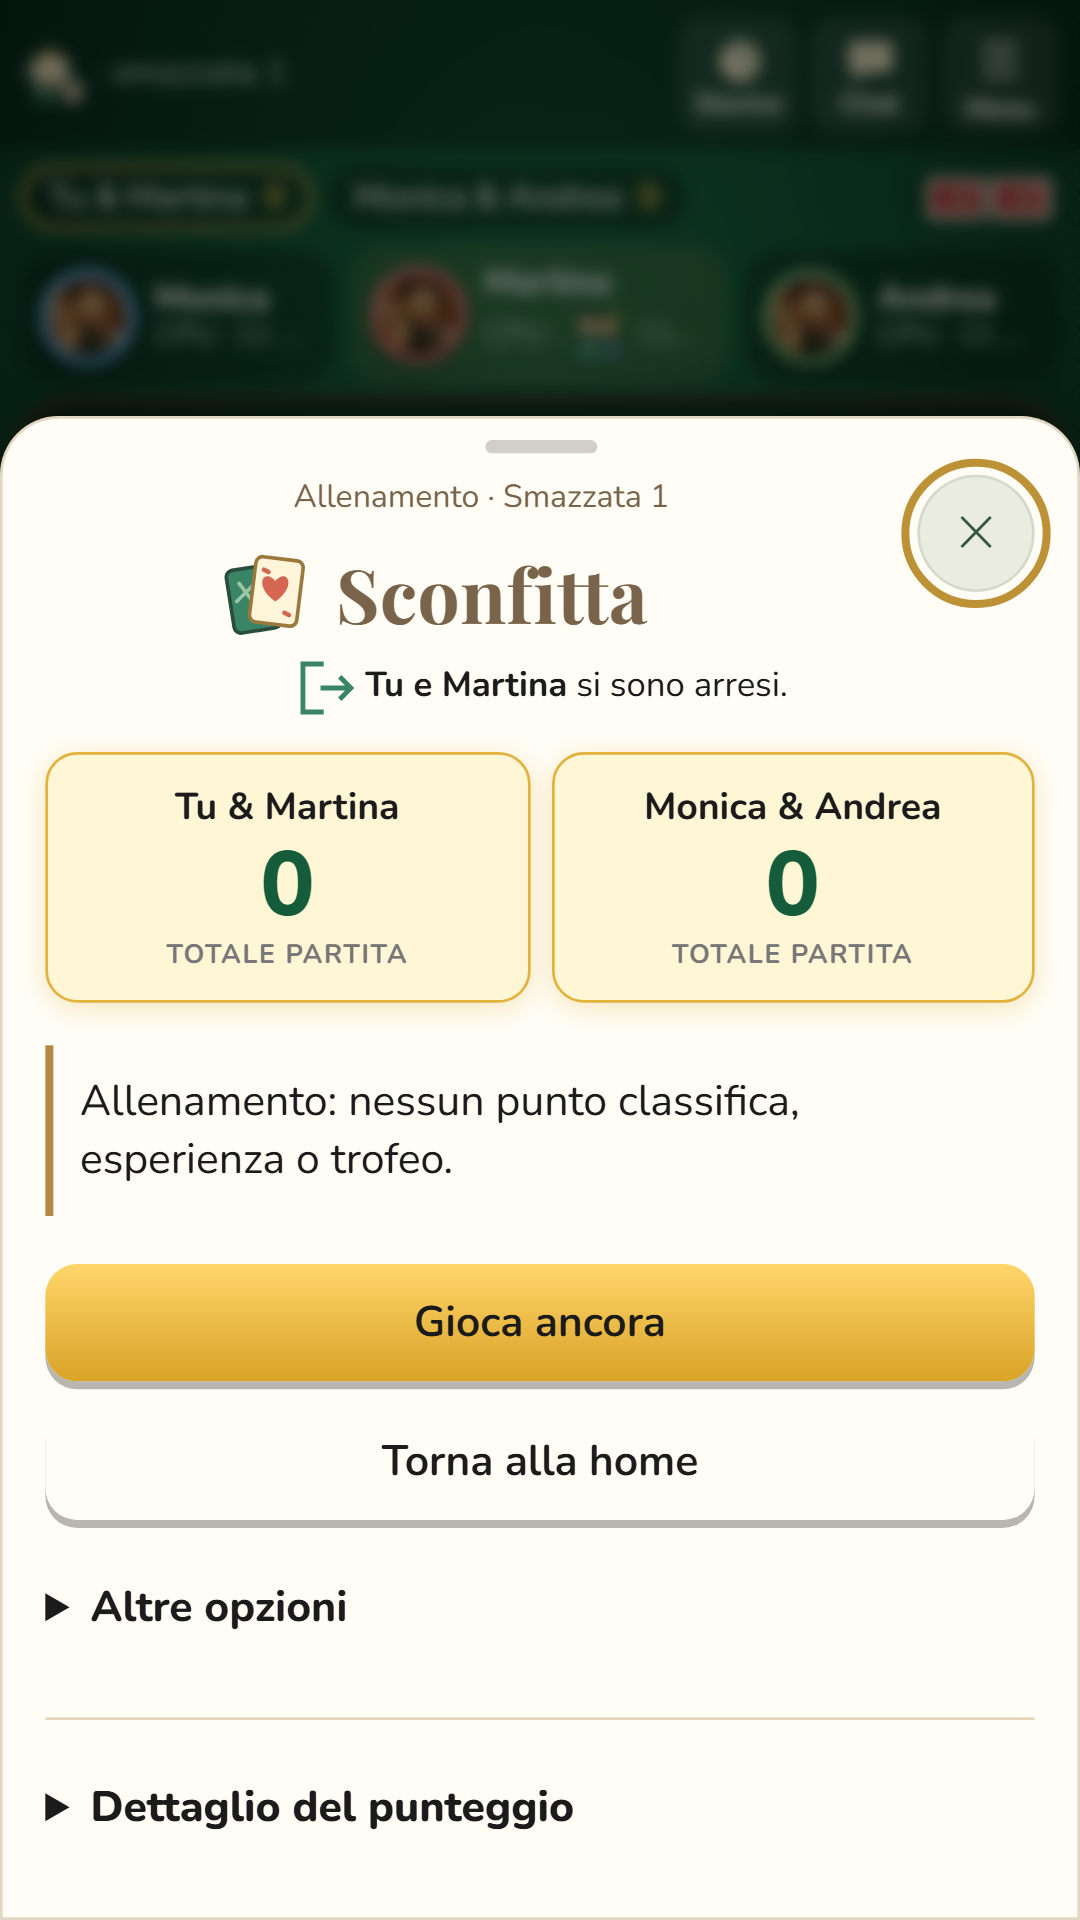
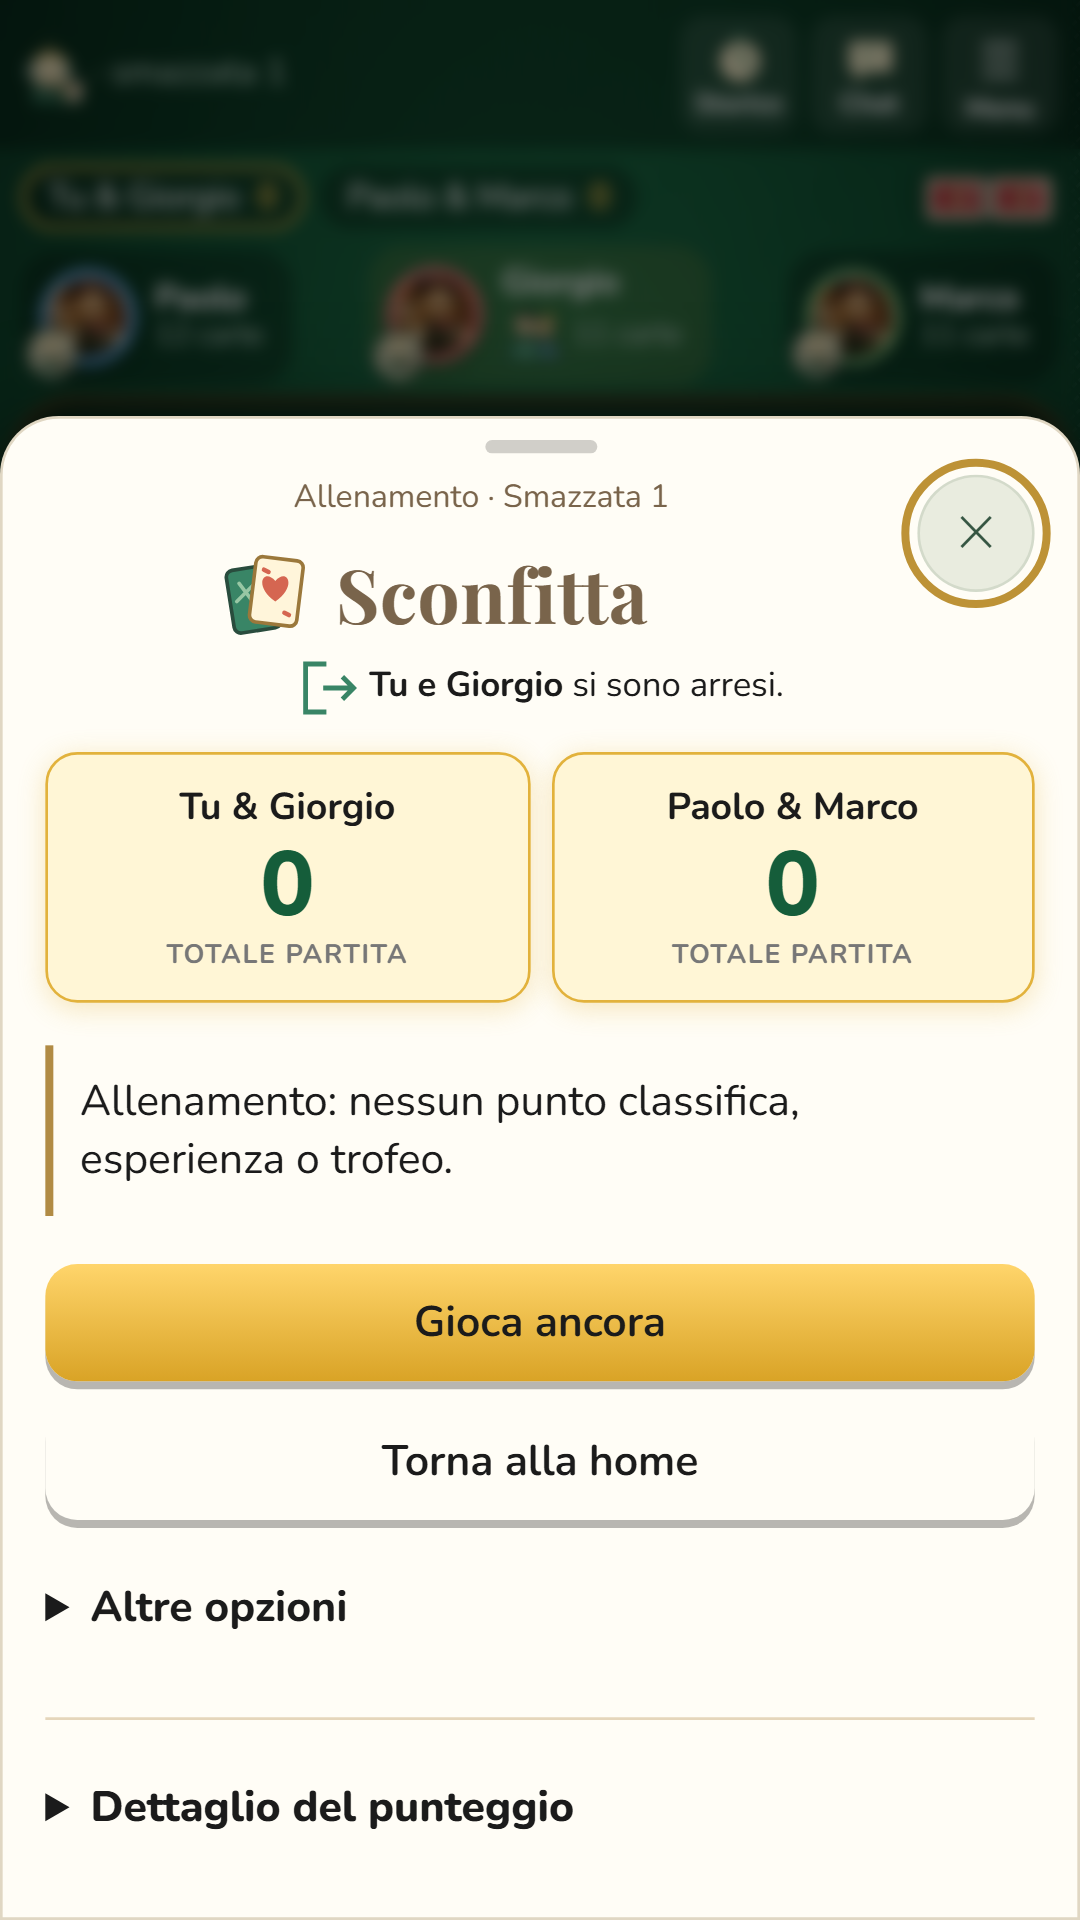
Corregge l'etichetta dei computer e il tavolo senza animazioni
Il computer si riconosce da un'icona sul ritratto: il testo «CPU ·»
tagliava il numero di carte. Con «senza animazioni» le transizioni
durano 0 s, così fitTable misura subito e la Scala 40 a quattro non
finisce più sotto i comandi. Schermate store rigenerate. Client
2026.11.02.1, cache v99.

diff --git a/launcher/sw.js b/launcher/sw.js
@@ -1,7 +1,7 @@
 // Service worker della pagina d'ingresso: salva la pagina e la copia del gioco (cartella gioca/)
 // così, senza internet, l'app si apre lo stesso e si può giocare contro il computer.
 // "Prima la rete": da collegati si usa sempre la versione più recente.
-const CACHE = 'burraco-ingresso-v98';
+const CACHE = 'burraco-ingresso-v99';
 const SHELL = [
   'gioca/js/collection.js', 'gioca/collection.css', 'gioca/shared/cosmetics.js', 'gioca/js/cosmetics.js', 'gioca/cosmetics.css', 'gioca/art/cosmetics/back/trama-rubino.webp', 'gioca/art/cosmetics/back/picche-del-bosco.webp', 'gioca/art/cosmetics/back/fiordaliso.webp', 'gioca/art/cosmetics/back/filo-di-rame.webp', 'gioca/art/cosmetics/back/vento-marino.webp', 'gioca/art/cosmetics/back/lavanda.webp', 'gioca/art/cosmetics/back/geometrie-salvia.webp', 'gioca/art/cosmetics/back/righe-del-mazziere.webp', 'gioca/art/cosmetics/back/mosaico-terracotta.webp', 'gioca/art/cosmetics/back/foglie-d-autunno.webp', 'gioca/art/cosmetics/back/rosa-dei-venti.webp', 'gioca/art/cosmetics/back/vetri-di-murano.webp', 'gioca/art/cosmetics/back/piuma-di-pavone.webp', 'gioca/art/cosmetics/back/orologio-lunare.webp', 'gioca/art/cosmetics/back/giardino-d-inverno.webp', 'gioca/art/cosmetics/back/scaglie-d-ambra.webp', 'gioca/art/cosmetics/back/biblioteca-arcana.webp', 'gioca/art/cosmetics/back/cometa-di-cristallo.webp', 'gioca/art/cosmetics/back/drago-d-ossidiana.webp', 'gioca/art/cosmetics/back/sigillo-dell-aurora.webp', 'gioca/art/cosmetics/felt/panno-foresta.webp', 'gioca/art/cosmetics/felt/velluto-blu-notte.webp', 'gioca/art/cosmetics/felt/cotone-bordeaux.webp', 'gioca/art/cosmetics/felt/ardesia-soffice.webp', 'gioca/art/cosmetics/felt/tessuto-petrolio.webp', 'gioca/art/cosmetics/felt/muschio.webp', 'gioca/art/cosmetics/felt/zaffiro-fume.webp', 'gioca/art/cosmetics/felt/crepuscolo-viola.webp', 'gioca/art/cosmetics/felt/sabbia-d-ulivo.webp', 'gioca/art/cosmetics/felt/terracotta-scura.webp', 'gioca/art/cosmetics/felt/salotto-veneziano.webp', 'gioca/art/cosmetics/felt/serra-al-tramonto.webp', 'gioca/art/cosmetics/felt/salone-d-ambra.webp', 'gioca/art/cosmetics/felt/osservatorio.webp', 'gioca/art/cosmetics/felt/riva-notturna.webp', 'gioca/art/cosmetics/felt/biblioteca-di-noce.webp', 'gioca/art/cosmetics/felt/santuario-di-giada.webp', 'gioca/art/cosmetics/felt/palazzo-delle-nuvole.webp', 'gioca/art/cosmetics/felt/forgia-celeste.webp', 'gioca/art/cosmetics/felt/giardino-dell-eternita.webp', 'gioca/art/cosmetics/reaction/orso-applaude.webp', 'gioca/art/cosmetics/reaction/volpe-saluta.webp', 'gioca/art/cosmetics/reaction/gatto-ringrazia.webp', 'gioca/art/cosmetics/reaction/coniglio-sorpreso.webp', 'gioca/art/cosmetics/reaction/gufo-riflette.webp', 'gioca/art/cosmetics/reaction/lontra-ride.webp', 'gioca/art/cosmetics/reaction/riccio-incoraggia.webp', 'gioca/art/cosmetics/reaction/pinguino-approva.webp', 'gioca/art/cosmetics/reaction/panda-rosso-abbraccia.webp', 'gioca/art/cosmetics/reaction/tartaruga-aspetta.webp', 'gioca/art/cosmetics/reaction/leone-si-inchina.webp', 'gioca/art/cosmetics/reaction/prestigiatore-festeggia.webp', 'gioca/art/cosmetics/reaction/gufo-meravigliato.webp', 'gioca/art/cosmetics/reaction/lupo-ammicca.webp', 'gioca/art/cosmetics/reaction/pavone-elegante.webp', 'gioca/art/cosmetics/reaction/alchimista-brillante.webp', 'gioca/art/cosmetics/reaction/grifone-esulta.webp', 'gioca/art/cosmetics/reaction/unicorno-incanta.webp', 'gioca/art/cosmetics/reaction/gatto-stregone-trionfa.webp', 'gioca/art/cosmetics/reaction/fenice-celebra.webp',
   'gioca/art/chests/chest-opening.webp', 'gioca/art/chests/chest-rare.webp', 'gioca/art/chests/chest-epic.webp', 'gioca/art/chests/chest-legendary.webp', 'gioca/js/chests.js',

diff --git a/public/sw.js b/public/sw.js
@@ -1,7 +1,7 @@
 // Service worker: notifiche e copia del gioco per giocare anche senza internet.
 // "Prima la rete": da collegati si usa sempre la versione più recente (e se ne salva una copia);
 // senza rete si usa l'ultima copia salvata. La connessione di gioco (socket.io) non passa mai dalla copia.
-const CACHE = 'burraco-gioco-v98';
+const CACHE = 'burraco-gioco-v99';
 const SHELL = [
   'js/collection.js', 'collection.css', 'shared/cosmetics.js', 'js/cosmetics.js', 'cosmetics.css', 'art/cosmetics/back/trama-rubino.webp', 'art/cosmetics/back/picche-del-bosco.webp', 'art/cosmetics/back/fiordaliso.webp', 'art/cosmetics/back/filo-di-rame.webp', 'art/cosmetics/back/vento-marino.webp', 'art/cosmetics/back/lavanda.webp', 'art/cosmetics/back/geometrie-salvia.webp', 'art/cosmetics/back/righe-del-mazziere.webp', 'art/cosmetics/back/mosaico-terracotta.webp', 'art/cosmetics/back/foglie-d-autunno.webp', 'art/cosmetics/back/rosa-dei-venti.webp', 'art/cosmetics/back/vetri-di-murano.webp', 'art/cosmetics/back/piuma-di-pavone.webp', 'art/cosmetics/back/orologio-lunare.webp', 'art/cosmetics/back/giardino-d-inverno.webp', 'art/cosmetics/back/scaglie-d-ambra.webp', 'art/cosmetics/back/biblioteca-arcana.webp', 'art/cosmetics/back/cometa-di-cristallo.webp', 'art/cosmetics/back/drago-d-ossidiana.webp', 'art/cosmetics/back/sigillo-dell-aurora.webp', 'art/cosmetics/felt/panno-foresta.webp', 'art/cosmetics/felt/velluto-blu-notte.webp', 'art/cosmetics/felt/cotone-bordeaux.webp', 'art/cosmetics/felt/ardesia-soffice.webp', 'art/cosmetics/felt/tessuto-petrolio.webp', 'art/cosmetics/felt/muschio.webp', 'art/cosmetics/felt/zaffiro-fume.webp', 'art/cosmetics/felt/crepuscolo-viola.webp', 'art/cosmetics/felt/sabbia-d-ulivo.webp', 'art/cosmetics/felt/terracotta-scura.webp', 'art/cosmetics/felt/salotto-veneziano.webp', 'art/cosmetics/felt/serra-al-tramonto.webp', 'art/cosmetics/felt/salone-d-ambra.webp', 'art/cosmetics/felt/osservatorio.webp', 'art/cosmetics/felt/riva-notturna.webp', 'art/cosmetics/felt/biblioteca-di-noce.webp', 'art/cosmetics/felt/santuario-di-giada.webp', 'art/cosmetics/felt/palazzo-delle-nuvole.webp', 'art/cosmetics/felt/forgia-celeste.webp', 'art/cosmetics/felt/giardino-dell-eternita.webp', 'art/cosmetics/reaction/orso-applaude.webp', 'art/cosmetics/reaction/volpe-saluta.webp', 'art/cosmetics/reaction/gatto-ringrazia.webp', 'art/cosmetics/reaction/coniglio-sorpreso.webp', 'art/cosmetics/reaction/gufo-riflette.webp', 'art/cosmetics/reaction/lontra-ride.webp', 'art/cosmetics/reaction/riccio-incoraggia.webp', 'art/cosmetics/reaction/pinguino-approva.webp', 'art/cosmetics/reaction/panda-rosso-abbraccia.webp', 'art/cosmetics/reaction/tartaruga-aspetta.webp', 'art/cosmetics/reaction/leone-si-inchina.webp', 'art/cosmetics/reaction/prestigiatore-festeggia.webp', 'art/cosmetics/reaction/gufo-meravigliato.webp', 'art/cosmetics/reaction/lupo-ammicca.webp', 'art/cosmetics/reaction/pavone-elegante.webp', 'art/cosmetics/reaction/alchimista-brillante.webp', 'art/cosmetics/reaction/grifone-esulta.webp', 'art/cosmetics/reaction/unicorno-incanta.webp', 'art/cosmetics/reaction/gatto-stregone-trionfa.webp', 'art/cosmetics/reaction/fenice-celebra.webp',
   'art/chests/chest-opening.webp', 'art/chests/chest-rare.webp', 'art/chests/chest-epic.webp', 'art/chests/chest-legendary.webp', 'js/chests.js',

diff --git a/public/style.css b/public/style.css
@@ -1011,8 +1011,8 @@ body.contrast .card.red { color: #b00000; }
 body.contrast #hand .card.sel { box-shadow: 0 0 0 4px #ffeb3b, 0 0 0 6px #000 !important; }
 body.contrast .game .muted { color: #fff !important; }
 body.contrast .btn.primary { background: #ffeb3b !important; color: #000 !important; }
-/* niente animazioni */
-body.noanim *, body.noanim *::before, body.noanim *::after { animation-duration: .01ms !important; animation-iteration-count: 1 !important; transition-duration: .01ms !important; }
+/* niente animazioni: transizioni a 0 s, non .01ms, perché fitTable misura subito le nuove dimensioni */
+body.noanim *, body.noanim *::before, body.noanim *::after { animation-duration: .01ms !important; animation-iteration-count: 1 !important; transition-duration: 0s !important; }
 
 /* Briscola in 5: asta e chiamata */
 .presa.b5 { text-align: center; }
@@ -1451,3 +1451,6 @@ body.contrast .lobby-status,body.contrast .collection-complete{background:#fff;c
 .hand .card.draw-highlight{outline:3px solid #e7bd52;outline-offset:-3px;box-shadow:inset 0 0 0 3px #ffe8a6,0 0 9px #edcd6c88}body.contrast .hand .card.draw-highlight{outline:3px solid #000;outline-offset:-3px;box-shadow:inset 0 0 0 6px #ffeb3b}
 
 .style-shortcuts{display:flex;gap:8px;margin:10px 0}.style-shortcuts>.btn{flex:1;display:flex;align-items:center;justify-content:center;gap:7px}.game .topbar .labelled-control{display:flex;flex-direction:column;align-items:center;justify-content:center;gap:1px;min-width:44px;min-height:44px;padding:3px}.labelled-control small{font:700 10px/1.1 Nunito;display:block}.game .topbar .labelled-control .ui-icon{width:21px;height:21px}.game .topbar .labelled-control.menuico{font-size:18px}
+/* Icona del computer sull'angolo del ritratto: non toglie spazio al nome e al numero di carte. */
+.seatchip .cpu-tag { position: absolute; left: 1px; bottom: 1px; width: 17px; height: 17px; border-radius: 50%; background: #fff1cd; box-shadow: 0 0 0 1.5px #294c3d; display: grid; place-items: center; pointer-events: none; }
+.seatchip .cpu-tag .ui-icon { width: 14px; height: 14px; }

diff --git a/public/js/tavolo.js b/public/js/tavolo.js
@@ -291,7 +291,7 @@
       ${S.room?.campaign && p.isBot ? campaignPortrait(campaignPath().levels[S.campaignLevel].opponent, true) : avatarHTML(p.name, seat, p.isBot, rs && rs.avatar)}
       <div class="sinfo"><b ${rs && !rs.isBot && !p.isBot ? `data-act="playerMenu" data-nick="${esc(p.name)}"` : ''}>${esc(p.name)} ${lvlHTML(rs && rs.level)}</b>
         ${rs && rs.avatar && rs.avatar.t ? `<span class="stitle">${esc(rs.avatar.t)}</span>` : ''}
-        <span class="smeta">${p.isBot ? 'CPU · ' : ''}${p.out ? '<svg class=ui-icon viewBox=0,0,40,40 fill=none stroke=#294c3d stroke-width=1.6 aria-hidden=true><use href=#ui-report /></svg> eliminato · ' : ''}${off ? '<svg class=ui-icon viewBox=0,0,40,40 fill=none stroke=#294c3d stroke-width=1.6 aria-hidden=true><use href=#ui-privacy /></svg> ' : ''}${partner ? '<span title="compagno"><svg class=ui-icon viewBox=0,0,40,40 fill=none stroke=#294c3d stroke-width=1.6 aria-hidden=true><use href=#ui-friends /></svg></span> ' : ''}${p.handCount} carte</span></div>
+        <span class="smeta">${p.isBot ? `<span class="cpu-tag" role="img" aria-label="Computer" title="Computer">${uiIcon('bot')}</span>` : ''}${p.out ? '<svg class=ui-icon viewBox=0,0,40,40 fill=none stroke=#294c3d stroke-width=1.6 aria-hidden=true><use href=#ui-report /></svg> eliminato · ' : ''}${off ? '<svg class=ui-icon viewBox=0,0,40,40 fill=none stroke=#294c3d stroke-width=1.6 aria-hidden=true><use href=#ui-privacy /></svg> ' : ''}${partner ? '<span title="compagno"><svg class=ui-icon viewBox=0,0,40,40 fill=none stroke=#294c3d stroke-width=1.6 aria-hidden=true><use href=#ui-friends /></svg></span> ' : ''}${p.handCount} carte</span></div>
       <div class="minifan">${fan}</div>
       ${turn ? (S.turnEnd ? '<span class="thinking cdchip" data-cd></span>' : '<span class="thinking"><i></i><i></i><i></i></span>') : ''}
     </div>`;

diff --git a/public/js/base.js b/public/js/base.js
@@ -4,7 +4,7 @@
 'use strict';
 
   const R = window.BurracoRules;
-  const CLIENT_BUILD = '2026.10.31.2';
+  const CLIENT_BUILD = '2026.11.02.1';
   const $ = (s, el = document) => el.querySelector(s);
   const $$ = (s, el = document) => [...el.querySelectorAll(s)];
   const esc = (s) => String(s).replace(/[&<>"']/g, (c) => ({ '&': '&amp;', '<': '&lt;', '>': '&gt;', '"': '&quot;', "'": '&#39;' }[c]));

diff --git a/CLAUDE.md b/CLAUDE.md
@@ -223,3 +223,4 @@ Ricerche classificate/amichevoli completate con CPU dopo 30 s (`launchWithBots`/
 Apertura chest fluida (31 ottobre): la scena usa quattro `.chest-frame` sovrapposti con dissolvenze (`chest-f0..f3`) e movimento continuo del contenitore `.chest-anim` (tremolio, schiacciamento, scatto), solo transform/opacity; non tornare al background-position a scatti. chest-uitest campiona i fotogrammi a 0/900/1000/1450 ms. Client 2026.10.31.1, cache v97.
 Invii con più premi (31 ottobre, richiesta del titolare): sostituisce «un solo regalo per invio». `normalize` produce `gifts` (chest per tipo fino a 100 in totale, monete fino a 100.000, fino a 50 oggetti distinti); il vecchio campo `gift` di storico, bozze e benvenuto resta letto tramite `giftsOf`, e il codice campagna confronta l'insieme dei premi. Messaggi con `gifts` più `gift` = primo premio per i client precedenti. Pagina /stato/invii in tre passi (A chi, Regali, Messaggio) con scelta dei nickname al tocco, filtri degli oggetti e barra di riepilogo. Client 2026.10.31.2, cache v98.
 AAB 1.76 (31 ottobre) da apk-76 sul commit ce847a1: client 2026.10.31.2, cache v98, firma, 248 sorgenti e 34 scene sul pacchetto verificati. Schermate store rigenerate. È il pacchetto da caricare su Play; non è stato caricato. store/AAB-1.76-2026-10-31.md.
+Etichetta computer e «senza animazioni» (2 novembre): il computer al tavolo si riconosce da una piccola icona `.cpu-tag` sull'angolo del ritratto, non dal testo «CPU ·», che tagliava il numero di carte. In body.noanim le transizioni durano 0s e non .01ms: fitTable misura subito le dimensioni, altrimenti ingrandiva troppo le combinazioni e la Scala 40 a quattro sforava sotto i comandi. Client 2026.11.02.1, cache v99.
